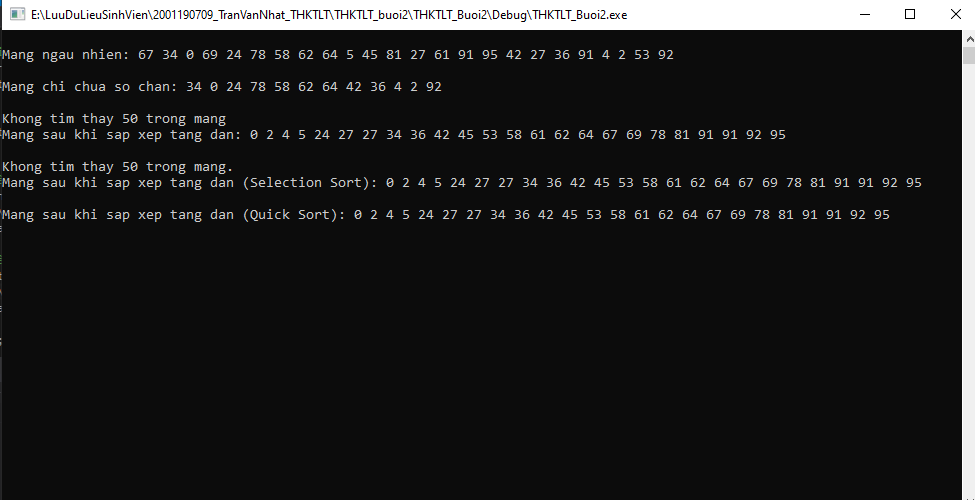
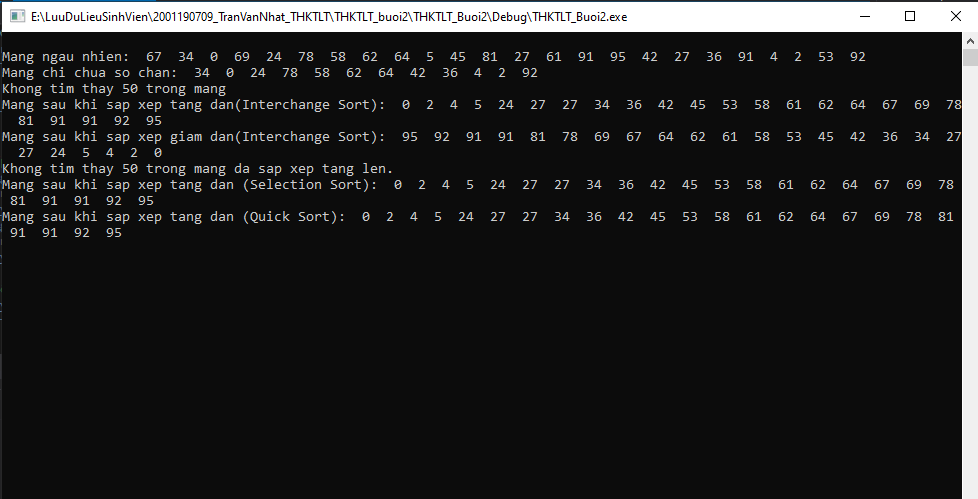
UpdateBai2.1TrenLop

Changed region(s): [[0.0, 0.0, 1.0, 1.0]]

diff --git a/THKTLT_Tuan2/Bai2.1_TrenLop.cpp b/THKTLT_Tuan2/Bai2.1_TrenLop.cpp
@@ -45,7 +45,18 @@ void interchangeSort(int a[], int n, bool ascending) {
 		}
 	}
 }
-
+// Hàm sắp xếp giảm dần bằng giải thuật Interchange Sort
+void interchangeSort2(int a[], int n, bool ascending) {
+	for (int i = 0; i < n - 1; ++i) {
+		for (int j = i + 1; j < n; ++j) {
+			if ((ascending && a[i] < a[j]) || (!ascending && a[i] > a[j])) {
+				int temp = a[i];
+				a[i] = a[j];
+				a[j] = temp;
+			}
+		}
+	}
+}
 // Hàm tìm kiếm nhị phân x trong mảng đã sắp xếp tăng dần
 bool binarySearch(const int a[], int n, int x, int &position) {
 	int left = 0, right = n - 1;
@@ -149,17 +160,20 @@ void main() {
 		printf("\nKhong tim thay %d trong mang", x);
 	}
 
-	// Sắp xếp mảng a tăng dần bằng Interchange Sort và in ra kết quả
+	// Sắp xếp mảng a tăng/giảm dần bằng Interchange Sort
 	interchangeSort(a, n, true);
-	printf("\nMang sau khi sap xep tang dan: ");
+	printf("\nMang sau khi sap xep tang dan(Interchange Sort): ");
+	printArray(a, n);
+	interchangeSort2(a, n, true);
+	printf("\nMang sau khi sap xep giam dan(Interchange Sort): ");
 	printArray(a, n);
 
 	// Tìm kiếm nhị phân số 50 trong mảng a đã sắp xếp tăng dần
 	if (binarySearch(a, n, x, position)) {
-		printf("\nTim thay %d tai vi tri %d", x,  position);
+		printf("\nTim thay %d tai vi tri %d trong mang da sap xep tang len", x, position);
 	}
 	else {
-		printf("\nKhong tim thay %d trong mang.", x);
+		printf("\nKhong tim thay %d trong mang da sap xep tang len.", x);
 	}
 
 	// Sắp xếp mảng a tăng dần bằng Selection Sort và in ra kết quả
